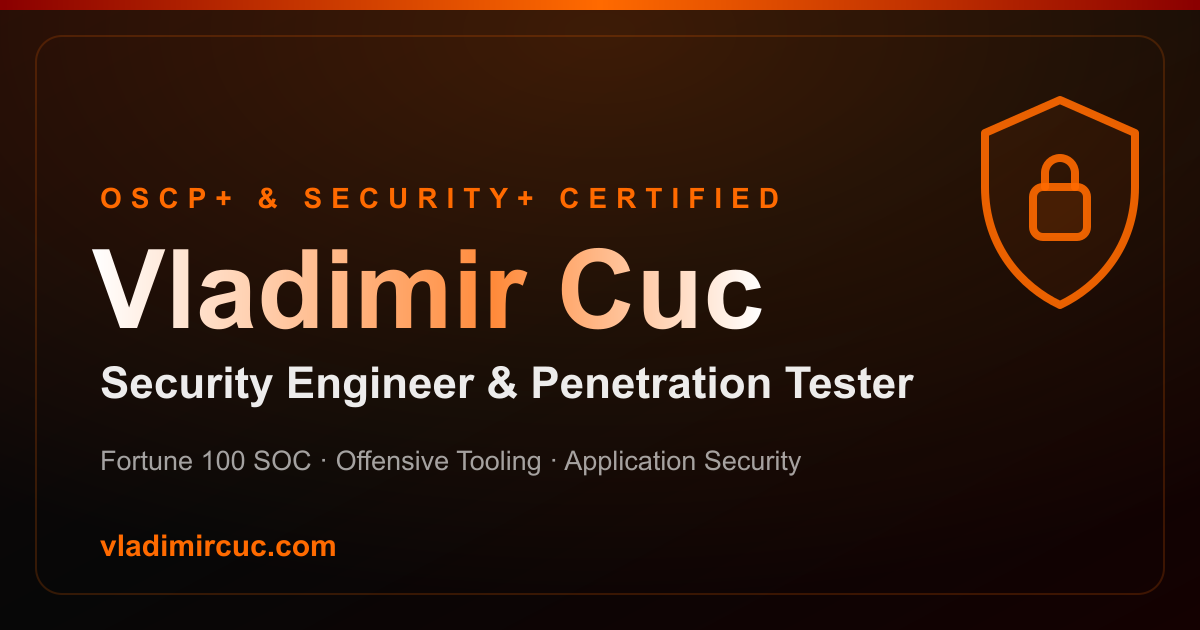
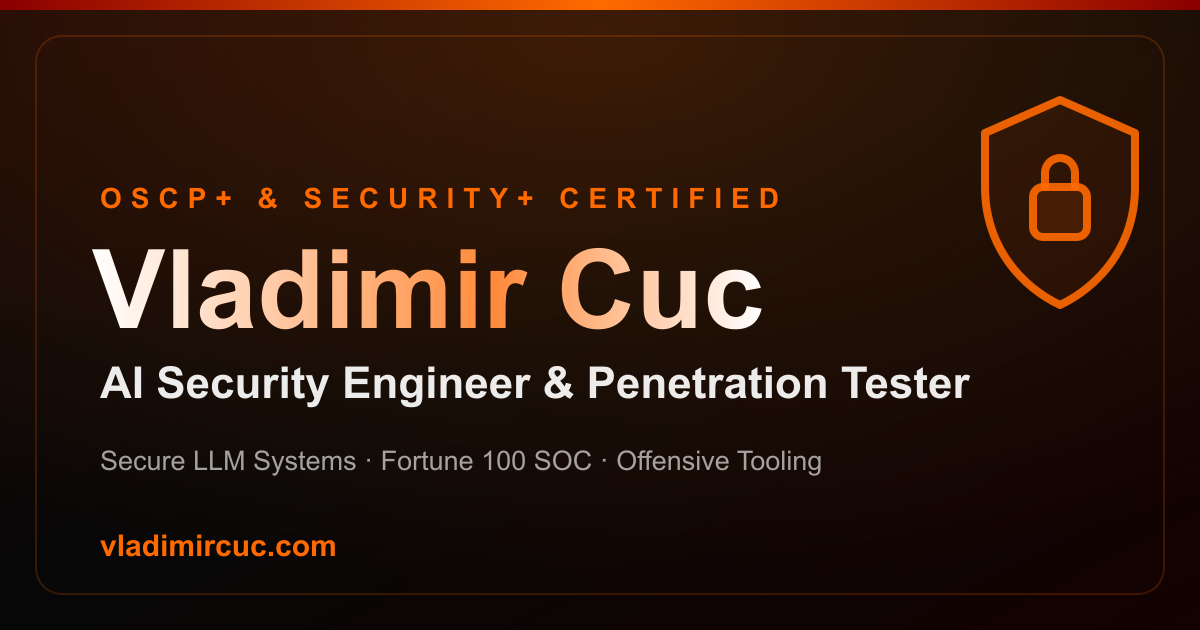
Add AI Visibility Audit project and make the site AI-forward
- Security & AI: add the AI Visibility Audit (live at
  ai-audit.posted-social.com) as the first panel, with MIDL centered
  alone on the second row
- Title, meta, and share card: reposition as AI Security Engineer &
  Penetration Tester, and regenerate og-image.png
- Hero, About, and Experience: add grounded AI content (the audit,
  QUORRA, MIDL 2025, scheduled AI reporting)
- Skills: replace the Offensive Tooling & Tradecraft card with a violet
  AI Security & Engineering card; Programming takes the freed orange theme

Changed region(s): [[0.0617, 0.573, 0.8017, 0.6635], [0.0925, 0.6937, 0.7092, 0.754]]

diff --git a/src/app/page.js b/src/app/page.js
@@ -67,7 +67,7 @@ export default function HomePage() {
 
   const [progressWidths, setProgressWidths] = useState({
     offensive: [0, 0, 0, 0, 0],
-    tooling: [0, 0, 0, 0, 0],
+    ai: [0, 0, 0, 0, 0],
     cloud: [0, 0, 0, 0, 0],
     programming: [0, 0, 0, 0, 0],
   });
@@ -297,7 +297,7 @@ export default function HomePage() {
             setTimeout(() => {
               setProgressWidths({
                 offensive: [92, 90, 86, 84, 80],
-                tooling: [90, 87, 85, 82, 80],
+                ai: [90, 88, 86, 84, 82],
                 cloud: [88, 85, 82, 80, 80],
                 programming: [93, 89, 86, 82, 78],
               });
@@ -346,12 +346,12 @@ export default function HomePage() {
                 OSCP+ &amp; Security+ Certified
               </p>
               <p className="mt-2 text-lg text-white/70">
-                Security Engineer &amp; Penetration Tester
+                AI Security Engineer &amp; Penetration Tester
               </p>
             </div>
 
             <p className="text-base leading-relaxed text-white/80 sm:text-lg">
-              I&apos;m passionate about cybersecurity, from offensive security and penetration testing to security operations and cloud infrastructure. I focus on Active Directory attack paths, SIEM-driven detection, and building tooling that strengthens organizational defenses.
+              I work both sides of security, from Active Directory attack paths to hands-on SOC triage at a Fortune 100. My focus now is AI security: building LLM systems and engineering the controls that keep them safe in production.
             </p>
 
             {/* Buttons */}
@@ -459,6 +459,9 @@ export default function HomePage() {
               </p>
               <p>
                 I live in the attacker&apos;s mindset, enumerating aggressively, hunting misconfigurations, and mapping Active Directory attack paths from initial foothold to full domain compromise. I focus on privilege escalation, lateral movement, and pivoting, and I write my own tooling to make recon and exploitation faster and cleaner. When I&apos;m not in a lab, I&apos;m documenting walkthroughs and sharpening the tradecraft that turns a single weak point into complete control.
+              </p>
+              <p>
+                Increasingly, my work sits where security meets AI. At Posted Social I shipped a public AI product that queries six AI engines, along with its evaluation harness and its abuse and spend controls. I owned the backend of QUORRA, a RAG assistant with scoped retrieval and tool-calling guardrails, and I published peer-reviewed research fine-tuning a pathology foundation model at MIDL 2025. I approach AI the way I approach any target: learn how it breaks, then build the controls that hold.
               </p>
             </div>
 
@@ -655,8 +658,8 @@ export default function HomePage() {
             <span className="absolute -bottom-2 left-0 w-full h-0.5 bg-gradient-to-r from-[#8B0000] to-[#FF6A00]" />
           </h2>
           <p className="text-sm md:text-lg text-white/70 mt-4 md:mt-6">
-            <span className="md:hidden">Offensive security, security operations, and cloud</span>
-            <span className="hidden md:inline">A snapshot of the technologies I use across penetration testing, security operations, cloud infrastructure, and automation</span>
+            <span className="md:hidden">Offensive security, AI security, and cloud</span>
+            <span className="hidden md:inline">A snapshot of the technologies I use across penetration testing, AI security, cloud infrastructure, and automation</span>
           </p>
         </div>
 
@@ -698,8 +701,8 @@ export default function HomePage() {
             </div>
           </div>
 
-          {/* Offensive Tooling Card - Orange Theme */}
-          <div className={`rounded-2xl border border-[#FF6A00]/30 bg-gradient-to-br from-[#FF6A00]/10 via-[#1a0a0a] to-[#FF6A00]/5 p-6 shadow-lg shadow-[#FF6A00]/20 backdrop-blur-sm transition-all duration-1000 ease-out ${
+          {/* AI Security & Engineering Card - Violet Theme */}
+          <div className={`rounded-2xl border border-[#7C3AED]/30 bg-gradient-to-br from-[#7C3AED]/10 via-[#1a0a0a] to-[#7C3AED]/5 p-6 shadow-lg shadow-[#7C3AED]/20 backdrop-blur-sm transition-all duration-1000 ease-out ${
             hasAnimated
               ? "opacity-100 translate-y-0"
               : "opacity-0 translate-y-8"
@@ -707,27 +710,27 @@ export default function HomePage() {
           style={{ transitionDelay: hasAnimated ? "200ms" : "0ms" }}
           >
             <div className="flex items-center gap-3 mb-6">
-              <div className="rounded-full bg-gradient-to-br from-[#FF6A00]/40 to-[#FF6A00]/20 p-3 border border-[#FF6A00]/50">
-                <svg className="w-6 h-6 text-[#FF6A00]" fill="none" stroke="currentColor" viewBox="0 0 24 24">
-                  <path strokeLinecap="round" strokeLinejoin="round" strokeWidth={2} d="M8 9l3 3-3 3m5 0h4M6 20h12a2 2 0 002-2V6a2 2 0 00-2-2H6a2 2 0 00-2 2v12a2 2 0 002 2z" />
+              <div className="rounded-full bg-gradient-to-br from-[#7C3AED]/40 to-[#7C3AED]/20 p-3 border border-[#7C3AED]/50">
+                <svg className="w-6 h-6 text-[#C084FC]" fill="none" stroke="currentColor" viewBox="0 0 24 24">
+                  <path strokeLinecap="round" strokeLinejoin="round" strokeWidth={2} d="M5 3v4M3 5h4M6 17v4m-2-2h4m5-16l2.286 6.857L21 12l-5.714 2.143L13 21l-2.286-6.857L5 12l5.714-2.143L13 3z" />
                 </svg>
               </div>
-              <h3 className="text-xl font-semibold text-white">Offensive Tooling &amp; Tradecraft</h3>
+              <h3 className="text-xl font-semibold text-white">AI Security &amp; Engineering</h3>
             </div>
             <div className="space-y-4">
               {[
-                { name: "BloodHound / SharpHound", index: 0 },
-                { name: "Impacket / NetExec", index: 1 },
-                { name: "Burp Suite", index: 2 },
-                { name: "Nmap / RustScan", index: 3 },
-                { name: "Metasploit / Sliver C2", index: 4 },
+                { name: "LLM Security & Guardrails", index: 0 },
+                { name: "RAG Pipelines & Vector Search", index: 1 },
+                { name: "Agentic Tool-Calling Systems", index: 2 },
+                { name: "OpenAI / Anthropic / Gemini APIs", index: 3 },
+                { name: "LLM Evaluation & Benchmarking", index: 4 },
               ].map((skill) => (
                 <div key={skill.name}>
                   <span className="block text-sm text-white/90 mb-2">{skill.name}</span>
-                  <div className="h-2 w-full overflow-hidden rounded-full bg-[#FF6A00]/20">
+                  <div className="h-2 w-full overflow-hidden rounded-full bg-[#7C3AED]/20">
                     <div
-                      className="h-full rounded-full bg-gradient-to-r from-[#FF6A00] to-[#FFAA44] transition-all duration-[2000ms] ease-out"
-                      style={{ width: `${progressWidths.tooling[skill.index]}%` }}
+                      className="h-full rounded-full bg-gradient-to-r from-[#7C3AED] to-[#C084FC] transition-all duration-[2000ms] ease-out"
+                      style={{ width: `${progressWidths.ai[skill.index]}%` }}
                     />
                   </div>
                 </div>
@@ -772,8 +775,8 @@ export default function HomePage() {
             </div>
           </div>
 
-          {/* Programming & Tooling Card - Purple Theme */}
-          <div className={`rounded-2xl border border-[#5B21B6]/25 bg-gradient-to-br from-[#5B21B6]/8 via-[#1a0a0a] to-[#4C1D95]/4 p-6 shadow-lg shadow-[#5B21B6]/15 backdrop-blur-sm transition-all duration-1000 ease-out ${
+          {/* Programming & Tooling Card - Orange Theme */}
+          <div className={`rounded-2xl border border-[#FF6A00]/30 bg-gradient-to-br from-[#FF6A00]/10 via-[#1a0a0a] to-[#FF6A00]/5 p-6 shadow-lg shadow-[#FF6A00]/20 backdrop-blur-sm transition-all duration-1000 ease-out ${
             hasAnimated
               ? "opacity-100 translate-y-0"
               : "opacity-0 translate-y-8"
@@ -781,8 +784,8 @@ export default function HomePage() {
           style={{ transitionDelay: hasAnimated ? "600ms" : "0ms" }}
           >
             <div className="flex items-center gap-3 mb-6">
-              <div className="rounded-full bg-gradient-to-br from-[#5B21B6]/30 to-[#4C1D95]/15 p-3 border border-[#5B21B6]/40">
-                <svg className="w-6 h-6 text-[#8B5CF6]" fill="none" stroke="currentColor" viewBox="0 0 24 24">
+              <div className="rounded-full bg-gradient-to-br from-[#FF6A00]/40 to-[#FF6A00]/20 p-3 border border-[#FF6A00]/50">
+                <svg className="w-6 h-6 text-[#FF6A00]" fill="none" stroke="currentColor" viewBox="0 0 24 24">
                   <path strokeLinecap="round" strokeLinejoin="round" strokeWidth={2} d="M10 20l4-16m4 4l4 4-4 4M6 16l-4-4 4-4" />
                 </svg>
               </div>
@@ -798,9 +801,9 @@ export default function HomePage() {
               ].map((skill) => (
                 <div key={skill.name}>
                   <span className="block text-sm text-white/90 mb-2">{skill.name}</span>
-                  <div className="h-2 w-full overflow-hidden rounded-full bg-[#5B21B6]/15">
+                  <div className="h-2 w-full overflow-hidden rounded-full bg-[#FF6A00]/20">
                     <div
-                      className="h-full rounded-full bg-gradient-to-r from-[#5B21B6] to-[#8B5CF6] transition-all duration-[2000ms] ease-out"
+                      className="h-full rounded-full bg-gradient-to-r from-[#FF6A00] to-[#FFAA44] transition-all duration-[2000ms] ease-out"
                       style={{ width: `${progressWidths.programming[skill.index]}%` }}
                     />
                   </div>
@@ -830,8 +833,8 @@ export default function HomePage() {
             <span className="absolute -bottom-2 left-0 w-full h-0.5 bg-gradient-to-r from-[#8B0000] to-[#FF6A00]" />
           </h2>
           <p className="text-sm md:text-lg text-white/70 mt-4 md:mt-6">
-            <span className="hidden md:inline">A timeline shaped by security, engineering, and real-world problem-solving</span>
-            <span className="md:hidden">Offensive security and engineering experience in one place</span>
+            <span className="hidden md:inline">A timeline shaped by security, AI, and real-world engineering</span>
+            <span className="md:hidden">Security, AI, and engineering experience in one place</span>
           </p>
         </div>
 
@@ -891,6 +894,13 @@ export default function HomePage() {
                     <li className="flex items-start gap-2">
                       <span className="text-[#FF6A00] mt-1.5">▸</span>
                       <span className="md:inline">
+                        <span className="md:hidden">Shipped a public AI product that queries six AI engines, with an eval harness and spend controls.</span>
+                        <span className="hidden md:inline">Built and shipped a public AI visibility audit that queries six AI engines, including ChatGPT, Claude, and Gemini, with an evaluation harness for model selection and Turnstile plus an atomic daily spend cap guarding the paid route.</span>
+                      </span>
+                    </li>
+                    <li className="flex items-start gap-2">
+                      <span className="text-[#FF6A00] mt-1.5">▸</span>
+                      <span className="md:inline">
                         <span className="md:hidden">Enforce tenant isolation with Postgres RLS, least-privilege RBAC, and passwordless auth.</span>
                         <span className="hidden md:inline">Enforce tenant isolation with Postgres Row-Level Security and a tiered least-privilege access model, with passwordless authentication (Google OAuth and magic links) scoped per client.</span>
                       </span>
@@ -905,15 +915,15 @@ export default function HomePage() {
                     <li className="flex items-start gap-2">
                       <span className="text-[#FF6A00] mt-1.5">▸</span>
                       <span className="md:inline">
-                        <span className="md:hidden">Build 30+ automation workflows across 20 client environments with Python API integrations.</span>
-                        <span className="hidden md:inline">Build 30+ automation workflows across 20 client environments, with Python integrations to Meta and platform APIs for event tracking and conversion attribution.</span>
+                        <span className="md:hidden">Build 30+ automation workflows and scheduled AI tasks that build weekly client reports.</span>
+                        <span className="hidden md:inline">Build 30+ automation workflows across 20 client environments with Python API integrations, plus scheduled AI tasks that build the weekly client campaign reports, replacing 3 to 4 hours of manual work every week.</span>
                       </span>
                     </li>
                   </ul>
                 </div>
 
                 <div className="hidden md:flex flex-wrap gap-2">
-                  {["Next.js", "Supabase", "Postgres RLS", "OAuth Security", "RBAC", "SSRF Defense", "AppSec", "Automation"].map((skill) => (
+                  {["LLM Integration", "LLM Evaluation", "Next.js", "Supabase", "Postgres RLS", "OAuth Security", "RBAC", "SSRF Defense", "AppSec", "Automation"].map((skill) => (
                     <span key={skill} className="px-3 py-1 rounded-full text-xs font-medium bg-[#8B0000]/20 text-[#FF6A00] border border-[#8B0000]/30">
                       {skill}
                     </span>
@@ -1384,11 +1394,33 @@ export default function HomePage() {
             <span className="absolute -bottom-2 left-0 w-full h-0.5 bg-gradient-to-r from-[#5B21B6] to-[#FF6A00]" />
           </h2>
           <p className="text-sm md:text-lg text-white/70 mt-4 md:mt-6 max-w-2xl mx-auto">
-            AI is part of how I build and how I defend. I use it to move fast, then put the security boundaries around it that teams often skip, and I bring an attacker&apos;s eye to AI systems themselves.
+            AI is part of how I build and how I defend. I ship LLM systems with the security boundaries teams often skip, from scoped retrieval and tool-calling guardrails to abuse and spend controls, and I bring an attacker&apos;s eye to AI systems themselves.
           </p>
         </div>
 
         <div className="grid gap-6 md:grid-cols-2 max-w-5xl mx-auto">
+          {/* AI Visibility Audit panel */}
+          <a
+            href="https://ai-audit.posted-social.com"
+            target="_blank"
+            rel="noopener noreferrer"
+            className="group relative block overflow-hidden rounded-2xl border border-white/10 aspect-[3/2] shadow-lg transition-all duration-300 hover:-translate-y-2 hover:border-[#FF6A00]/40 hover:shadow-xl hover:shadow-[#FF6A00]/20"
+          >
+            <img src="/ai-audit.webp" alt="Six AI engines sending recommendations to businesses pinned across a city" className="absolute inset-0 h-full w-full object-cover transition-transform duration-500 group-hover:scale-105" />
+            <div className="absolute inset-0 bg-gradient-to-t from-[#070707] via-[#070707]/40 to-transparent" />
+            <div className="absolute inset-x-0 bottom-0 p-5 md:p-6">
+              <p className="text-[11px] font-semibold uppercase tracking-[0.25em] text-[#FF6A00] mb-1">Live AI Product</p>
+              <h3 className="text-xl md:text-2xl font-bold text-white">AI Visibility Audit</h3>
+              <p className="text-white/75 text-sm mt-1">Asks six AI engines who they recommend for a local business, with Turnstile and an atomic spend cap in front of every audit.</p>
+              <span className="mt-3 inline-flex items-center gap-1.5 text-sm font-semibold text-[#FF6A00]">
+                Try it live
+                <svg className="h-4 w-4 transition-transform group-hover:translate-x-1" fill="none" stroke="currentColor" viewBox="0 0 24 24">
+                  <path strokeLinecap="round" strokeLinejoin="round" strokeWidth={2} d="M13 7l5 5m0 0l-5 5m5-5H6" />
+                </svg>
+              </span>
+            </div>
+          </a>
+
           {/* QUORRA panel */}
           <a
             href="https://github.com/vladimircuc/QUORRA-Asera-Custom-LLM"
@@ -1411,12 +1443,12 @@ export default function HomePage() {
             </div>
           </a>
 
-          {/* MIDL panel */}
+          {/* MIDL panel, centered alone on the second row */}
           <a
             href="https://openreview.net/forum?id=SifPKZmav5"
             target="_blank"
             rel="noopener noreferrer"
-            className="group relative block overflow-hidden rounded-2xl border border-white/10 aspect-[3/2] shadow-lg transition-all duration-300 hover:-translate-y-2 hover:border-[#FF6A00]/40 hover:shadow-xl hover:shadow-[#FF6A00]/20"
+            className="group relative block overflow-hidden rounded-2xl border border-white/10 aspect-[3/2] md:col-span-2 md:justify-self-center md:w-[calc(50%-0.75rem)] shadow-lg transition-all duration-300 hover:-translate-y-2 hover:border-[#FF6A00]/40 hover:shadow-xl hover:shadow-[#FF6A00]/20"
           >
             <img src="/midl.webp" alt="MIDL 2025 foundation-model thyroid cytopathology research" className="absolute inset-0 h-full w-full object-cover transition-transform duration-500 group-hover:scale-105" />
             <div className="absolute inset-0 bg-gradient-to-t from-[#070707] via-[#070707]/40 to-transparent" />

diff --git a/src/app/layout.js b/src/app/layout.js
@@ -7,9 +7,9 @@ import AnalyticsTracker from "../components/AnalyticsTracker";
 
 export const metadata = {
   metadataBase: new URL("https://vladimircuc.com"),
-  title: "Vladimir Cuc | Security Engineer & Penetration Tester",
+  title: "Vladimir Cuc | AI Security Engineer & Penetration Tester",
   description:
-    "OSCP+ and Security+ certified security engineer and penetration tester. Fortune 100 SOC internship, production application security (Postgres RLS, OAuth hardening, SSRF defense), and open-source offensive tooling.",
+    "OSCP+ and Security+ certified AI security engineer and penetration tester. Builds and secures LLM systems, with Fortune 100 SOC experience, peer-reviewed AI research (MIDL 2025), and production application security.",
   icons: {
     icon: "/icon.png", // lives in /public
   },
@@ -17,16 +17,16 @@ export const metadata = {
     type: "website",
     url: "https://vladimircuc.com",
     siteName: "Vladimir Cuc",
-    title: "Vladimir Cuc | Security Engineer & Penetration Tester",
+    title: "Vladimir Cuc | AI Security Engineer & Penetration Tester",
     description:
-      "OSCP+ and Security+ certified. SOC internship, production application security, and open-source offensive tooling, plus a live, interactive Security Lab.",
-    images: [{ url: "/og-image.png", width: 1200, height: 630, alt: "Vladimir Cuc, Security Engineer & Penetration Tester, OSCP+ and Security+ certified" }],
+      "OSCP+ and Security+ certified. AI security and LLM systems, Fortune 100 SOC experience, application security, and open-source offensive tooling, plus a live, interactive Security Lab.",
+    images: [{ url: "/og-image.png", width: 1200, height: 630, alt: "Vladimir Cuc, AI Security Engineer & Penetration Tester, OSCP+ and Security+ certified" }],
   },
   twitter: {
     card: "summary_large_image",
-    title: "Vladimir Cuc | Security Engineer & Penetration Tester",
+    title: "Vladimir Cuc | AI Security Engineer & Penetration Tester",
     description:
-      "OSCP+ and Security+ certified. SOC internship, production application security, and open-source offensive tooling.",
+      "OSCP+ and Security+ certified. AI security and LLM systems, Fortune 100 SOC experience, application security, and open-source offensive tooling.",
     images: ["/og-image.png"],
   },
 };
